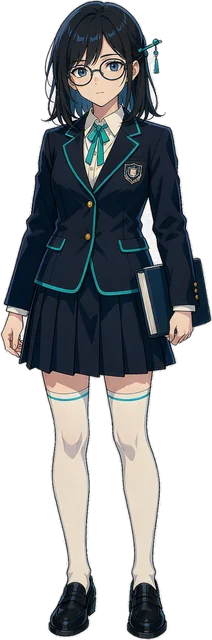
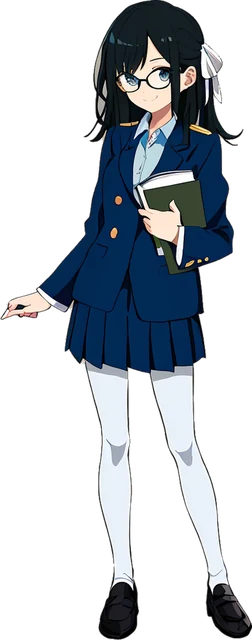
feat(v3-6): 重做两侧立绘，并修掉 dev 下 HMR 被浏览器 profile 打断
立绘重做（用户 09-20 反馈第 1 版「太丑」）
- 第 1 版三个客观缺陷：眼睛无瞳孔、姿态僵硬、背景带独立色块（大红底+白圆）
  导致泛洪抠图不可用。整体废弃重做，不是微调。
- 第 2 版走本机离线生成（SD WebUI + anything-v5），每角色 4 seed 共 8 张候选，
  逐张读图挑图后选定 academic-881004 / sporty-881004。
- 背景改为中性纯灰 —— 这是抠图能成立的前提。第 1 版用彩色背景时，
  「背景色与角色配色同色系」在数学上就不存在能同时保住角色与吃掉背景的容差。
- 抠图判据从「颜色距离」换成「低饱和 + 亮度贴近背景 + 与外边界连通」三条件，
  再加「只保留最大连通域」清漂浮残渣。踩坑记录：白丝袜饱和度≈0 会被误删，
  加明度窗口救回；全局收紧窗口会把角色内部切碎，只能做针对性修补。
- 两张共 77 KB（旧版 77 KB，体积持平），入场页实测干净无残影。

dev 环境修复（vite.config.js）
- 调试用 Edge 的 user-data-dir 曾建在项目内，Vite 监视它 →
  浏览器每写一次 Code Cache 就触发一次全量 reload，页面永远停在未挂载状态
  （实测 body 仅 103 字节、root.children=0，一度误判成代码 bug）。
- 给 watch.ignored 加上 .browser-profile / .workbuddy-gen / .smoke-out，
  并把 .browser-profile 移出项目目录；.gitignore 补上这两条。

自检 258 项全绿；build 274 ms，首屏 94.43 kB gzip。

diff --git a/vite.config.js b/vite.config.js
@@ -7,6 +7,18 @@ export default defineConfig({
   server: {
     port: 5173,
     open: false,
+    // 调试期在项目里放过的目录必须排除，否则 Vite 会监视它们：
+    // `.browser-profile/` 是调试用 Edge 的用户数据目录，浏览器**每写一次
+    // Code Cache 就触发一次全量 reload** —— 页面会永远停在「还没挂载」的白屏上。
+    // 2026-09-20 实测踩到：dev 页面 body 只有 103 字节、root.children=0，
+    // 一度误判成代码 bug，实际是 HMR 被自己的浏览器 profile 反复打断。
+    watch: {
+      ignored: [
+        '**/.browser-profile/**',
+        '**/.workbuddy-gen/**',
+        '**/.smoke-out/**',
+      ],
+    },
   },
   build: {
     // 阈值放宽到 700 KB，**只针对一个已知的块**：ECharts（约 570 KB）。

diff --git a/docs/素材说明.md b/docs/素材说明.md
@@ -6,21 +6,27 @@
 
 | 文件 | 用途 | 尺寸 | 体积 |
 |---|---|---|---|
-| `public/art/student-academic.webp` | 入场界面左侧 | 212×640 | 35 KB |
-| `public/art/student-sporty.webp` | 入场界面右侧 | 362×640 | 42 KB |
+| `public/art/student-academic.webp` | 入场界面左侧 | 252×640 | 30 KB |
+| `public/art/student-sporty.webp` | 入场界面右侧 | 333×640 | 47 KB |
 
-**来源**：AI 生成（2026-09-16，文生图），非来自任何现有作品或商业素材库。
+**来源**：AI 生成（**第 2 版，2026-09-20**），非来自任何现有作品或商业素材库。
+
+> 第 1 版于 2026-09-16 生成，因质量不达标（眼睛无瞳孔、姿态僵硬、背景带独立色块导致无法抠图）已整体废弃重做。**两版均为本机离线生成**，未把任何素材上传到第三方服务。
+
+**生成环境**（第 2 版）：本机 Stable Diffusion WebUI（秋叶整合包 v4.10）＋ `anything-v5` 模型，通过其 HTTP API 批量出图，每个角色跑 4 个随机种子共 8 张候选，再逐一比对挑选。
 
 **生成时的设定**：
 - 同一个人的两种可能——左侧偏学术（深蓝制服 + 青色点缀 + 眼镜 + 书），右侧偏运动（运动服 + 琥珀色点缀 + 马尾 + 篮球）
 - 配色限定为终端的四个色（深蓝 / 青 / 琥珀 / 米白），保证与界面同一套色系
 - 平涂（cel shading）+ 清晰线稿，便于在深色背景上观感干净
+- 背景要求为**中性纯灰**，这是抠图能成立的前提（见下方「后处理」）
 
-**后处理**（脚本见项目外的工具目录，非本仓库）：
-1. 去除生成平台自动添加的水印
-2. 纯色背景泛洪抠图 → 透明通道
-3. 按角色包围盒裁掉多余留白
-4. 缩放并转 WebP（体积减少约 80%：167/215 KB → 35/42 KB）
+**后处理**：
+1. **纯灰背景分离** → 透明通道。判据是「低饱和 + 亮度贴近背景 + 与画面外边界连通」三条同时成立，再叠加一步「只保留最大连通域」清除漂浮残渣
+2. 按角色包围盒裁掉多余留白
+3. 缩放并转 WebP
+
+> 第 1 版曾用「四角泛洪」抠图，遇到两个结构性障碍：背景是**彩色渐变**（泛洪会在渐变处停下，沿轮廓留一圈青色鬼影）、以及**背景色与角色配色同色系**（青绿背景 + 青绿角色，任何容差都必然误伤角色）。第 2 版把背景改为中性灰后，改用饱和度与亮度双条件判据，两个问题一并解决。
 
 **AI 生成内容的声明**：
 - 本作品的角色立绘由 AI 生成，此处以文字形式显式声明其生成来源
